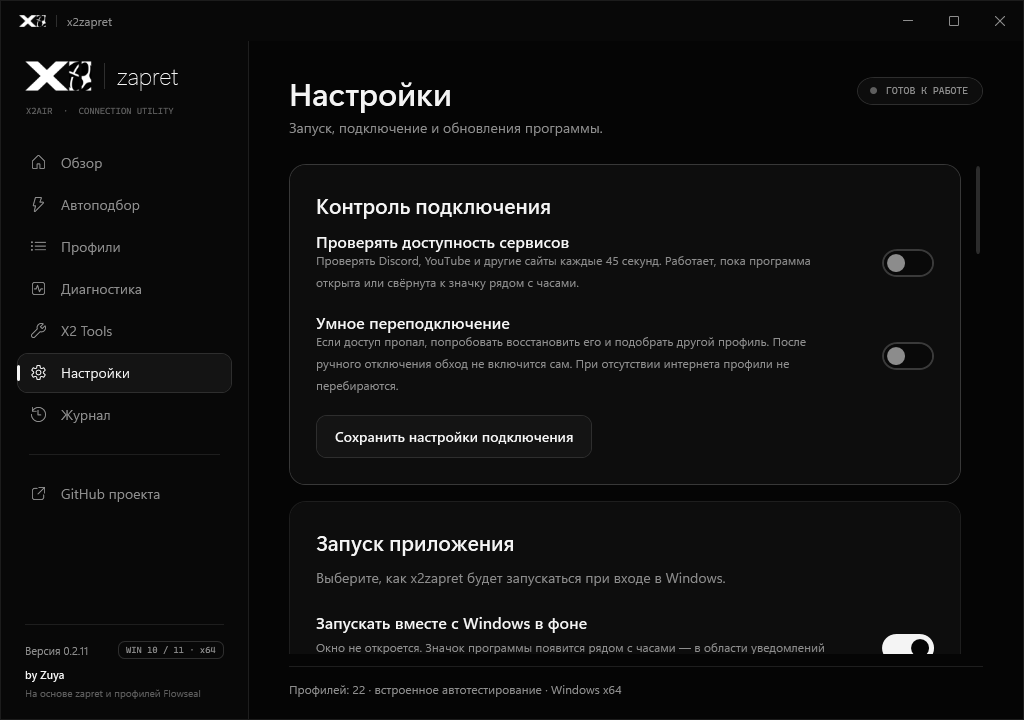
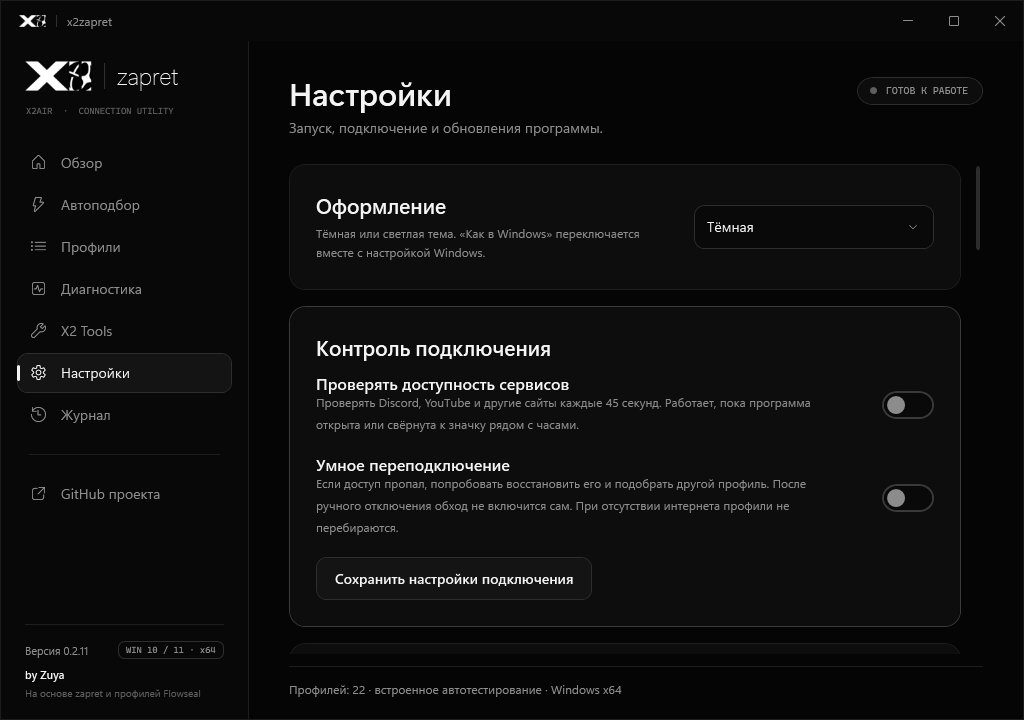
Fix theme-following sensor ratings, startup shortcut paths and tile captions; refresh screenshots
Claude-Session: https://claude.ai/code/session_014UdHpzwPVRCFCZo3des9ho

diff --git a/src/Zapret.Desktop/MainWindow.xaml b/src/Zapret.Desktop/MainWindow.xaml
@@ -301,10 +301,10 @@
                     <StackPanel><TextBlock Text="ВИДЕОКАРТА · °C" Style="{StaticResource Caption}" /><TextBlock x:Name="GpuTileValue" Text="—" FontSize="24" FontFamily="{StaticResource MonoFont}" Margin="0,6,0,6" /><ProgressBar x:Name="GpuTileBar" Maximum="100" Height="3" /><TextBlock x:Name="GpuTileRating" Text="Ожидание" FontSize="11" Foreground="{DynamicResource MutedBrush}" Margin="0,7,0,0" /></StackPanel>
                   </Border>
                   <Border x:Name="LoadTile" Grid.Column="4" Background="{DynamicResource RaisedBrush}" BorderBrush="{DynamicResource LineStrongBrush}" BorderThickness="1" CornerRadius="12" Padding="14,12" MouseLeftButtonUp="SensorTile_Click" ToolTip="Показать на графике">
-                    <StackPanel><TextBlock Text="ЗАГРУЗКА ПРОЦЕССОРА" Style="{StaticResource Caption}" /><TextBlock x:Name="LoadTileValue" Text="—" FontSize="24" FontFamily="{StaticResource MonoFont}" Margin="0,6,0,6" /><ProgressBar x:Name="LoadTileBar" Maximum="100" Height="3" /><TextBlock x:Name="LoadTileRating" Text="Ожидание" FontSize="11" Foreground="{DynamicResource MutedBrush}" Margin="0,7,0,0" /></StackPanel>
+                    <StackPanel><TextBlock Text="ЗАГРУЗКА · %" Style="{StaticResource Caption}" /><TextBlock x:Name="LoadTileValue" Text="—" FontSize="24" FontFamily="{StaticResource MonoFont}" Margin="0,6,0,6" /><ProgressBar x:Name="LoadTileBar" Maximum="100" Height="3" /><TextBlock x:Name="LoadTileRating" Text="Ожидание" FontSize="11" Foreground="{DynamicResource MutedBrush}" Margin="0,7,0,0" /></StackPanel>
                   </Border>
                   <Border x:Name="MemoryTile" Grid.Column="6" Background="{DynamicResource RaisedBrush}" BorderBrush="{DynamicResource LineStrongBrush}" BorderThickness="1" CornerRadius="12" Padding="14,12" MouseLeftButtonUp="SensorTile_Click" ToolTip="Показать на графике">
-                    <StackPanel><TextBlock Text="ЗАНЯТО ПАМЯТИ" Style="{StaticResource Caption}" /><TextBlock x:Name="MemoryTileValue" Text="—" FontSize="24" FontFamily="{StaticResource MonoFont}" Margin="0,6,0,6" /><ProgressBar x:Name="MemoryTileBar" Maximum="100" Height="3" /><TextBlock x:Name="MemoryTileRating" Text="Ожидание" FontSize="11" Foreground="{DynamicResource MutedBrush}" Margin="0,7,0,0" /></StackPanel>
+                    <StackPanel><TextBlock Text="ПАМЯТЬ · %" Style="{StaticResource Caption}" /><TextBlock x:Name="MemoryTileValue" Text="—" FontSize="24" FontFamily="{StaticResource MonoFont}" Margin="0,6,0,6" /><ProgressBar x:Name="MemoryTileBar" Maximum="100" Height="3" /><TextBlock x:Name="MemoryTileRating" Text="Ожидание" FontSize="11" Foreground="{DynamicResource MutedBrush}" Margin="0,7,0,0" /></StackPanel>
                   </Border>
                 </Grid>
                 <CheckBox x:Name="OverheatCheck" Content="Предупреждать о перегреве процессора и видеокарты (выше 90 °C)" Checked="OverheatAlert_Changed" Unchecked="OverheatAlert_Changed" Margin="0,14,0,0" ToolTip="Уведомление появится рядом с часами. Работает, пока идёт сбор показаний." />

diff --git a/src/Zapret.Desktop/MainWindow.ExtendedTools.xaml.cs b/src/Zapret.Desktop/MainWindow.ExtendedTools.xaml.cs
@@ -224,7 +224,7 @@ public partial class MainWindow
         var (text, level) = value is double reading ? rate(reading) : (sensor == null ? "Нет данных от датчика" : "Ожидание", 0);
         var rating = (TextBlock)FindName(name + "TileRating");
         rating.Text = text;
-        rating.Foreground = (Brush)FindResource(level == 0 ? "MutedBrush" : "TextBrush");
+        rating.SetResourceReference(TextBlock.ForegroundProperty, level == 0 ? "MutedBrush" : "TextBrush"); // Follows theme switches.
         rating.FontWeight = level == 2 ? FontWeights.Bold : FontWeights.Normal;
     }
     private void SensorTile_Click(object sender, MouseButtonEventArgs e)

diff --git a/src/Zapret.Desktop/MainWindow.Startup.xaml.cs b/src/Zapret.Desktop/MainWindow.Startup.xaml.cs
@@ -12,7 +12,8 @@ public partial class MainWindow
         public string Name => Entry.Name;
         public bool Enabled => Entry.Enabled;
         public string Command => Entry.Command;
-        public string Detail => Entry.Scope + " · " + StartupApproval.Executable(Entry.Command);
+        // Startup-folder entries are files whose paths may contain spaces; Run values are command lines.
+        public string Detail => Entry.Scope + " · " + (File.Exists(Entry.Command) ? Entry.Command : StartupApproval.Executable(Entry.Command));
     }
 
     internal void ShowStartupTool()
